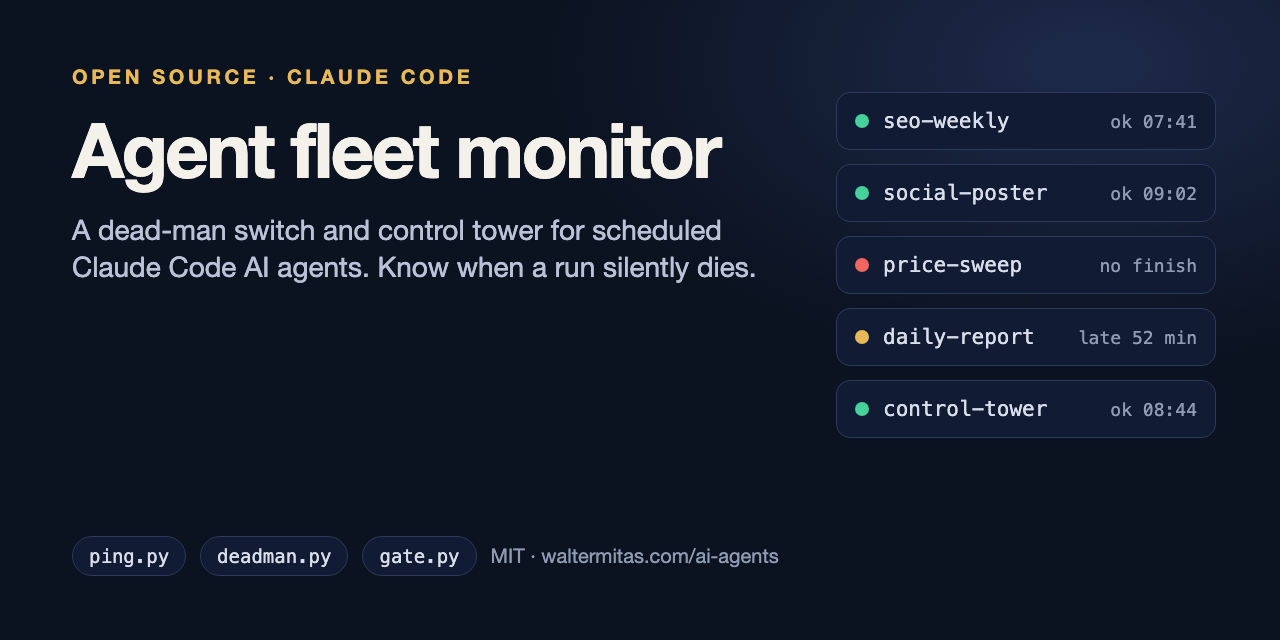
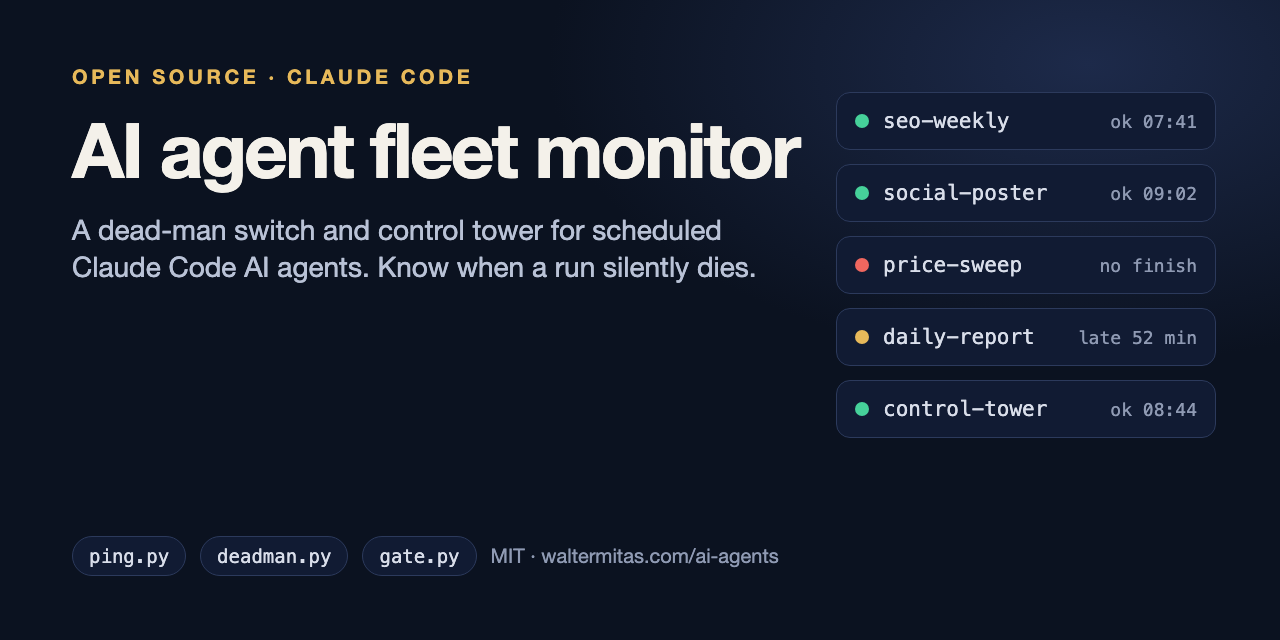
Rename fleet monitor links to ai-agent-fleet-monitor

Changed region(s): [[0.0938, 0.1875, 0.625, 0.3125]]

diff --git a/README.md b/README.md
@@ -48,9 +48,9 @@ Three independent signals catch three different failures:
 ## Quick start
 
 ```bash
-git clone https://github.com/waltermitas/claude-agent-fleet-monitor.git
+git clone https://github.com/waltermitas/ai-agent-fleet-monitor.git
 mkdir -p ~/.claude/agent-manager
-cp claude-agent-fleet-monitor/scripts/*.py ~/.claude/agent-manager/
+cp ai-agent-fleet-monitor/scripts/*.py ~/.claude/agent-manager/
 ```
 
 **1. Ping from every agent.** Put this at the top of each scheduled task's prompt:
